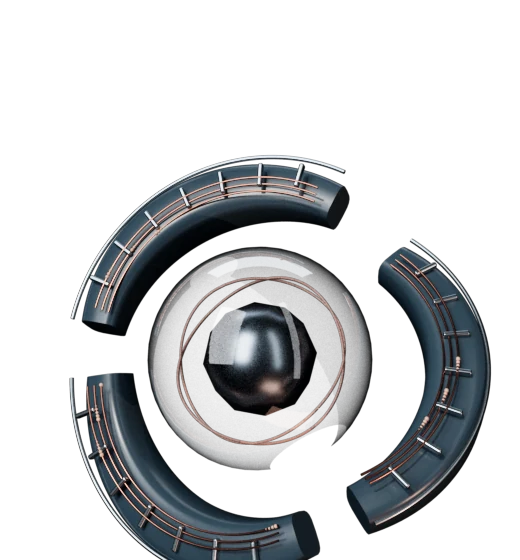
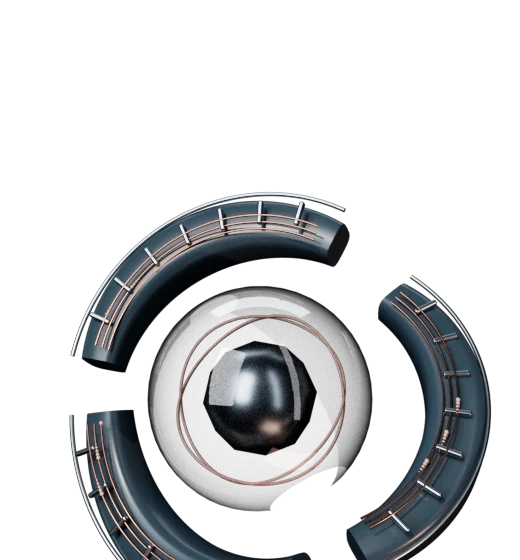
Keep the Engineering title clear in compact framing

diff --git a/assets/course-header.css b/assets/course-header.css
@@ -33,6 +33,7 @@ body.workspace .header-upgraded .workspace-actions{grid-column:1;grid-row:2;alig
 @media(min-width:761px) and (max-width:1000px){body.workspace .header-upgraded .hero-copy{align-self:start;padding-top:28px}.header-art:after{background:linear-gradient(180deg,#141d2177,transparent 48%,#141d2144)}}
 @media(max-width:760px){body.workspace .wrap,body.workspace .math-wrap{--page-gutter:18px}body.workspace .header-upgraded{grid-template-rows:420px 66px;padding:0;gap:0}.header-art{bottom:66px}.header-art:after{background:linear-gradient(180deg,#141d2199,transparent 48%,#141d2199)}body.workspace .header-upgraded .hero-copy{align-self:start;padding:28px 22px 0;max-width:100%}body.workspace .header-upgraded .team,body.workspace .header-upgraded .eyebrow{font-size:9px;margin-bottom:13px}body.workspace .header-upgraded h1{font-size:clamp(2.7rem,9.2vw,3.8rem);max-width:12ch;line-height:1;letter-spacing:-.045em}body.workspace .header-upgraded .workspace-actions{padding:10px 18px;gap:6px}.header-upgraded .workspace-actions button{padding-inline:10px;font-size:.7rem}.scene-meta{bottom:79px;left:22px;right:18px}.scene-meta>span{font-size:8px}.scene-pause{width:44px;height:44px}}
 @media(max-width:359px){body.workspace .header-upgraded{grid-template-rows:380px 66px}.header-upgraded .workspace-actions button{font-size:.65rem;padding-inline:8px}body.workspace .header-upgraded .workspace-actions{gap:4px;padding-inline:14px}}
+@media(max-width:760px){body[data-course=cen100] .header-art:after{background:linear-gradient(180deg,#141d21 0%,#141d21f2 23%,#141d2180 37%,transparent 57%,#141d2160)}}
 @media(max-height:600px) and (min-width:650px){body.workspace .header-upgraded{grid-template-rows:300px 66px}body.workspace .header-upgraded h1{font-size:2.8rem}}
 @view-transition{navigation:auto}
 @media(prefers-reduced-motion:no-preference){

diff --git a/docs/visual-overhaul.md b/docs/visual-overhaul.md
@@ -14,7 +14,7 @@ These counts include instances and are geometry measurements, not GPU frame-rate
 
 Three 0.186.1/WebGL2 uses original studio-light geometry converted through PMREM once, physical transmission, controlled iridescence, shaped highlights and a reusable 128 × 128 surface field. Calculus flow and its corrected surface normals are shader-driven; its geometry is not rebuilt each frame. Compatible shell/panel geometry is instanced. No recurring shadow, full-screen fluid simulation or extra full-resolution blur pass is required.
 
-The vendor module is 575,531 bytes / 144,056 gzip, 1,033 compressed bytes larger than the prior module. The six WebP posters together are 303,558 bytes; each is below 64 KiB. Each course initially loads its corresponding poster, not all six. The artwork modules remain native ES modules and require no GitHub Pages build pipeline.
+The vendor module is 575,531 bytes / 144,056 gzip, 1,033 compressed bytes larger than the prior module. The six WebP posters together are 301,152 bytes; each is below 64 KiB. Each course initially loads its corresponding poster, not all six. The artwork modules remain native ES modules and require no GitHub Pages build pipeline.
 
 The single scene frame owner pauses offscreen, when the document is hidden, and when the header is paused; it resumes after Back/Forward restoration. Sustained slow frames lower resolution and disable dispersion. Pointer and section changes retain the accepted camera response. Context loss, thrown rendering errors and nonthrowing shader-link errors all return safely to the matching poster and stop the GPU loop. Shader callbacks record a failure; renderer disposal happens after the active rendering operation.
 
